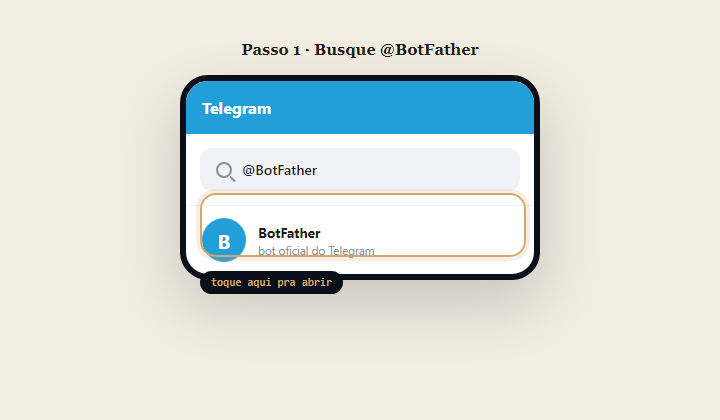
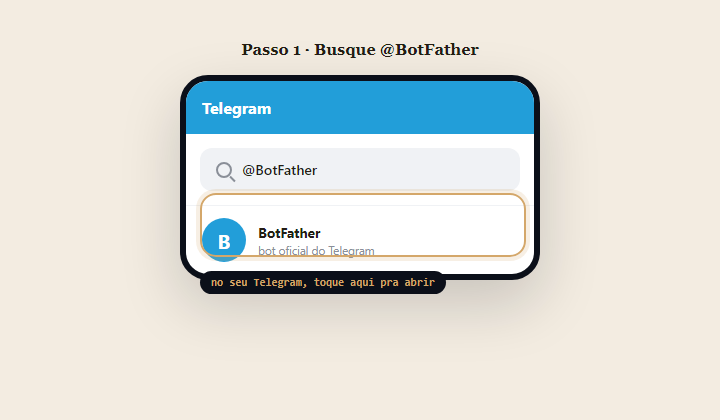
fix: fluxo real do BotFather (2 perguntas separadas, em ingles) e continuidade da ativacao
Dois bugs reais relatados por cliente (loja 1, configurando Telegram):

1. O roteiro/ilustracao de /configurar-telegram mostrava nome e username
   do bot como uma unica troca (uma imagem so, resposta unica). Na pratica
   o BotFather pergunta em duas mensagens separadas, uma de cada vez, e
   sempre em ingles (nao em portugues como as ilustracoes mostravam) -
   quem seguia o roteiro via uma tela real bem diferente da esperada.
   Corrigido: passo dividido em duas trocas reais, com o texto exato em
   ingles que o BotFather manda, e um aviso de que isso e normal. Tambem
   trocou o "toque aqui" das legendas por "no seu Telegram, toque aqui" -
   suspeita de que alguem estava tocando na propria ilustracao (uma foto
   estatica) esperando ela funcionar como um botao de verdade.

2. Depois do Telegram configurado com sucesso, a sequencia de ativacao
   nao continuou sozinha para o proximo passo (vendedores) - parou na
   mensagem de encerramento do /configurar-telegram, que foi desenhada
   pra quando o comando roda avulso. CLAUDE.md agora reforca em cada
   transicao da sequencia (nao so no principio geral do topo) que a
   mensagem de encerramento de um sub-comando nunca e o fim da resposta
   durante a ativacao - a etapa seguinte ja comeca a ser perguntada na
   mesma mensagem.

Changed region(s): [[0.275, 0.619, 0.6417, 0.7119]]

diff --git a/CLAUDE.md b/CLAUDE.md
@@ -271,24 +271,29 @@ Só ofereça a escolha de especialista (Gerente IA, Vetria Marketing ou Vetria S
 
 **Princípio geral: a Vetria nunca para no meio e espera o usuário lembrar do próximo passo.** Assim que uma etapa é concluída (ela volta dizendo "preenchi", manda a planilha, confirma uma escolha), a próxima etapa já começa na mesma resposta, sem o usuário precisar pedir ou perguntar "e agora?". A sequência só pausa de verdade quando depende de algo que só o usuário pode fazer fora do chat (preencher o Workbook, baixar uma planilha, criar um bot do Telegram) — nesse caso, deixe claro que assim que ele voltar, você já continua sozinho.
 
+**Achado real, 2026-08-31: um sub-comando invocado durante a ativação (`/configurar-telegram`, `/configurar-whatsapp`, `/gerente-configurar-escala`, `/marketing-criar-calendario`, etc.) tem a própria mensagem de encerramento, pensada pra quando alguém roda ele avulso — e isso já fez a sequência parar sozinha ali, esperando o usuário perguntar "e agora?" mesmo depois do canal estar 100% funcional.** Durante a ativação, a mensagem de encerramento de qualquer sub-comando **nunca é a última coisa da resposta**: assim que ele confirmar sucesso (token testado, escala salva, calendário gerado), a etapa seguinte desta sequência já começa a ser perguntada, no mesmo texto, sem esperar o usuário confirmar de novo. Nunca encerre um passo com só "canal configurado, use tal comando quando quiser" durante a ativação — esse tipo de frase é só pro comando rodado fora da sequência.
+
 Ordem das etapas, cada uma só começa depois que a Vetria confirma que a anterior está resolvida (ou que o usuário optou por pular e seguir depois):
 
 1. **Workbook DNA + materiais** (já coberto acima — Passo 6 da Primeira Interação).
-2. **Canal de relatório (Telegram ou WhatsApp).** Assim que o Workbook tiver o essencial preenchido (nome, segmento, pelo menos alguma coisa de marca/produto), inicie a lógica de `/configurar-envio-automatico` (canal → frequência → horário → alerta de erro) sem esperar o usuário digitar o comando — só narre isso como continuação natural da conversa, não como "agora rode este comando". Ao pedir pra conectar o Telegram/WhatsApp (via `/configurar-telegram` ou `/configurar-whatsapp`), lembre que quem está do outro lado pode nunca ter mexido nisso: explique cada clique como se fosse a primeira vez de alguém na internet, sem pular passo nem assumir que ela sabe abrir o BotFather ou o que é um "Chat ID" — literalmente clique a clique, com o texto exato de cada tela que a pessoa vai ver.
+2. **Canal de relatório (Telegram ou WhatsApp).** Assim que o Workbook tiver o essencial preenchido (nome, segmento, pelo menos alguma coisa de marca/produto), inicie a lógica de `/configurar-envio-automatico` (canal → frequência → horário → alerta de erro) sem esperar o usuário digitar o comando — só narre isso como continuação natural da conversa, não como "agora rode este comando". Ao pedir pra conectar o Telegram/WhatsApp (via `/configurar-telegram` ou `/configurar-whatsapp`), lembre que quem está do outro lado pode nunca ter mexido nisso: explique cada clique como se fosse a primeira vez de alguém na internet, sem pular passo nem assumir que ela sabe abrir o BotFather ou o que é um "Chat ID" — literalmente clique a clique, com o texto exato de cada tela que a pessoa vai ver. **Assim que o teste de envio (Passo 4 de `/configurar-telegram`) confirmar sucesso, não pare nessa confirmação — emende direto pro Passo 3 abaixo (Vendedores) na mesma resposta.**
 3. **Vendedores.** Pergunte quantos vendedores a loja tem e ofereça três caminhos pra cadastrar (deixe a escolha clara, numerada):
    1. Mandar uma planilha (nome, função, telefone, data de início) — mais rápido pra times maiores, você lê tudo de uma vez.
    2. Ditar um por um aqui no chat.
    3. Cadastrar depois, direto na Área Adm do app (aba Vendedores).
-   Se o Workbook já tem uma lista de equipe (Seção 07), use isso como ponto de partida e confirme com o usuário em vez de perguntar do zero.
-4. **Meta do mês e corridas/prêmios vigentes** (se houver). Pergunte o valor da meta atual e se existe alguma corrida/premiação rodando agora — grava em `meta-mensal-loja.csv`/`corridas.csv`.
-5. **Escala.** Só depois de existir pelo menos 1 vendedor (Passo 3): inicie `/gerente-configurar-escala` (horário de funcionamento, tipo de escala, dias sem folga, regras trabalhistas). Depois da primeira configuração salva, gere já a primeira sugestão de escala do mês (mesma lógica de `/gerente-sugerir-escala`) — não deixe isso pra uma próxima sessão.
-6. **Calendário de marketing.** Use tudo que já está na Pasta DNA (nome, segmento, produtos, público, identidade visual) pra já gerar o calendário editorial do mês corrente (ou do próximo, se faltar menos de 5 dias úteis) via `/marketing-criar-calendario`. **Cubra todas as datas comemorativas do período, sem filtrar por relevância** — datas pequenas ou pouco óbvias (ex: Dia da Árvore) entram exatamente como as grandes (Dia das Mães, Black Friday). Nunca decida sozinho que uma data "não vale a pena", isso é decisão do usuário, não sua.
+   Se o Workbook já tem uma lista de equipe (Seção 07), use isso como ponto de partida e confirme com o usuário em vez de perguntar do zero. **Assim que a equipe estiver registrada (ou o usuário escolher a opção 3 e adiar), emende direto pro Passo 4 (meta e corridas) na mesma resposta.**
+4. **Meta do mês e corridas/prêmios vigentes** (se houver). Pergunte o valor da meta atual e se existe alguma corrida/premiação rodando agora — grava em `meta-mensal-loja.csv`/`corridas.csv`. **Assim que a meta estiver registrada, emende direto pro Passo 5 (escala) na mesma resposta** — ou, sem nenhum vendedor cadastrado ainda (Passo 3 adiado), pule direto pro Passo 6 (calendário), já que escala depende de equipe.
+5. **Escala.** Só depois de existir pelo menos 1 vendedor (Passo 3): inicie `/gerente-configurar-escala` (horário de funcionamento, tipo de escala, dias sem folga, regras trabalhistas). Depois da primeira configuração salva, gere já a primeira sugestão de escala do mês (mesma lógica de `/gerente-sugerir-escala`) — não deixe isso pra uma próxima sessão. **Assim que a escala for salva e a sugestão do mês entregue, emende direto pro Passo 6 (calendário) na mesma resposta — não encerre só com a escala pronta.**
+6. **Calendário de marketing.** Use tudo que já está na Pasta DNA (nome, segmento, produtos, público, identidade visual) pra já gerar o calendário editorial do mês corrente (ou do próximo, se faltar menos de 5 dias úteis) via `/marketing-criar-calendario`. **Cubra todas as datas comemorativas do período, sem filtrar por relevância** — datas pequenas ou pouco óbvias (ex: Dia da Árvore) entram exatamente como as grandes (Dia das Mães, Black Friday). Nunca decida sozinho que uma data "não vale a pena", isso é decisão do usuário, não sua. **Assim que o calendário for gerado, emende direto pro Passo 7 (explicar como alimentar os dados) na mesma resposta.**
 7. **Explique como continuar alimentando cada tipo de dado dali pra frente** — não deixe isso implícito. Pra cada tipo de informação, diga explicitamente qual(is) caminho(s) está(ão) disponível(is):
    - Vendas do dia a dia → pelo chat do grupo/gerente no Telegram/WhatsApp (ex: "registra a venda de hoje da Kelly, R$450"), ou direto na Área Adm (aba Desempenho).
    - Meta, corridas e prêmios → Área Adm, ou pedindo pra você atualizar por mensagem.
    - Vendedores novos → Área Adm (botão "Novo Vendedor"), ou te avisando por mensagem.
    - Escala → sugestão automática mensal sua, aprovação do gerente por mensagem.
    - Identidade da marca/produtos (Workbook) → editar o `.docx` direto e me avisar que atualizou, ou me contar por mensagem que você atualiza no arquivo.
+   **Isso é só uma explicação, não uma pausa** — na mesma resposta, sem esperar o usuário reagir, siga direto pro Passo 8.
 8. **Raio-x inicial e plano de ação.** Assim que os Passos 1 a 6 estiverem pelo menos minimamente resolvidos (não precisa ser 100%, mas precisa ter saído do zero), rode automaticamente a mesma lógica de `/estamos-prontos` — não espere o usuário descobrir ou pedir esse comando. Entregue o plano de largada com a visão dos três especialistas (gestão, marketing, styling) mesmo que faltem poucos dias pro fim do mês — o objetivo é a loja já sair dessa primeira sessão sabendo exatamente o que fazer, não esperar o mês fechar pra ter o primeiro retorno útil da Vetria.
+
+**Checklist mental antes de encerrar qualquer resposta durante a ativação:** "o que acabei de confirmar bate com algum Passo 1-7 desta lista? Se sim, o Passo seguinte já foi perguntado nesta mesma resposta, ou ainda falta?" Se ainda faltar, não envie a resposta — complete o próximo passo primeiro.
 
 Se o usuário disser explicitamente que quer pular alguma etapa "por agora", respeite, mas deixe registrado (pode ser numa nota simples em `memoria/gerente-ia.md`) o que ficou pendente, pra retomar naturalmente da próxima vez que ele voltar — não repita a pergunta do zero, nem finja que nunca foi perguntado.

diff --git a/.claude/commands/configurar-telegram.md b/.claude/commands/configurar-telegram.md
@@ -50,24 +50,32 @@ entregas/gestao/imagens/tutorial-telegram-passo1.png
 Me avisa quando estiver na conversa com o BotFather.
 ```
 
-Depois de confirmado, copie `assets/tutoriais/telegram-passo2-criar.png` para `.../imagens/tutorial-telegram-passo2.png` e mostre:
+**O BotFather conduz em duas perguntas separadas, uma de cada vez — nunca despeje as duas juntas, ele só faz a segunda pergunta depois que você responder a primeira.** Copie `assets/tutoriais/telegram-passo2-nome.png` para `.../imagens/tutorial-telegram-passo2.png` e mostre:
 ```
 Agora, dentro da conversa com o BotFather:
 
 1. Envie o comando /newbot (só isso, sem mais nada na mensagem)
-2. Ele vai perguntar um nome pro bot — pode ser "Vetria {nome da loja}"
-3. Depois vai pedir um username, que precisa terminar em "bot" — sugestão: vetria_{algo curto da loja}_bot
+2. Ele vai responder em inglês perguntando o nome do bot — é normal, o BotFather sempre responde em inglês. Pode escrever algo como "Vetria {nome da loja}"
 
 entregas/gestao/imagens/tutorial-telegram-passo2.png
 
 Manda um "ok" ou já cola aqui o que o BotFather respondeu, o que for mais fácil.
 ```
 
-Por fim, copie `assets/tutoriais/telegram-passo3-token.png` para `.../imagens/tutorial-telegram-passo3.png` e mostre:
+Depois de confirmado, copie `assets/tutoriais/telegram-passo3-username.png` para `.../imagens/tutorial-telegram-passo3.png` e mostre:
+```
+Ele vai perguntar mais uma coisa: um username pro bot, que precisa terminar em "bot" — sugestão: vetria_{algo curto da loja}_bot
+
+entregas/gestao/imagens/tutorial-telegram-passo3.png
+
+Manda um "ok" ou cola aqui o que ele respondeu.
+```
+
+Por fim, copie `assets/tutoriais/telegram-passo4-token.png` para `.../imagens/tutorial-telegram-passo4.png` e mostre:
 ```
 Perfeito. O BotFather agora respondeu com um token, uma linha comprida começando com números e dois pontos, tipo 123456789:AAF...
 
-entregas/gestao/imagens/tutorial-telegram-passo3.png
+entregas/gestao/imagens/tutorial-telegram-passo4.png
 
 Copia essa linha inteira e cola aqui pra mim.
 ```
@@ -89,13 +97,13 @@ Faça isso para cada destino que ainda falta (grupo e/ou gerente).
 
 **Destino: grupo da loja**
 
-Copie `assets/tutoriais/telegram-passo4-grupo.png` para `minhas-empresas/{ativa}/entregas/gestao/imagens/tutorial-telegram-passo4.png` (crie a pasta se não existir) e mostre:
+Copie `assets/tutoriais/telegram-passo5-grupo.png` para `minhas-empresas/{ativa}/entregas/gestao/imagens/tutorial-telegram-passo5.png` (crie a pasta se não existir) e mostre:
 ```
 1. Abra o grupo da loja no Telegram, vá em Adicionar membro
 2. Busque o nome de usuário do bot que você criou (termina em "bot") e adicione ele
 3. Depois, envie qualquer mensagem no grupo, pode ser só "oi"
 
-entregas/gestao/imagens/tutorial-telegram-passo4.png
+entregas/gestao/imagens/tutorial-telegram-passo5.png
 
 Me avisa quando fizer isso.
 ```
@@ -149,6 +157,8 @@ Gerente: {configurado/não configurado}
 
 Use /gerente-enviar-relatorio (grupo) ou /gerente-boas-vindas-mes (gerente) quando quiser enviar.
 ```
+
+**Se este comando foi acionado durante a SEQUÊNCIA DE ATIVAÇÃO (`CLAUDE.md`) e não avulso pelo usuário: essa confirmação acima nunca é o fim da resposta.** Emende direto, na mesma mensagem, pra próxima etapa da sequência (Vendedores) — não pare esperando o usuário perguntar "e agora?".
 
 ## Perguntas frequentes
 
